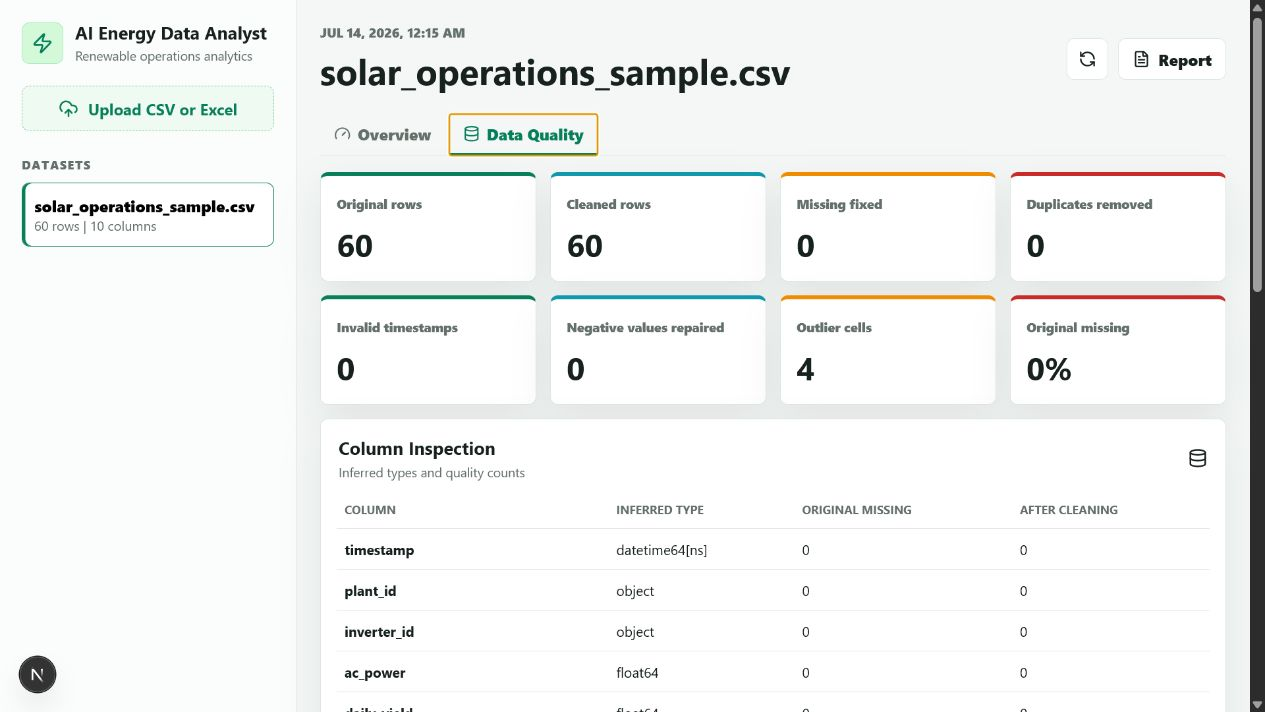
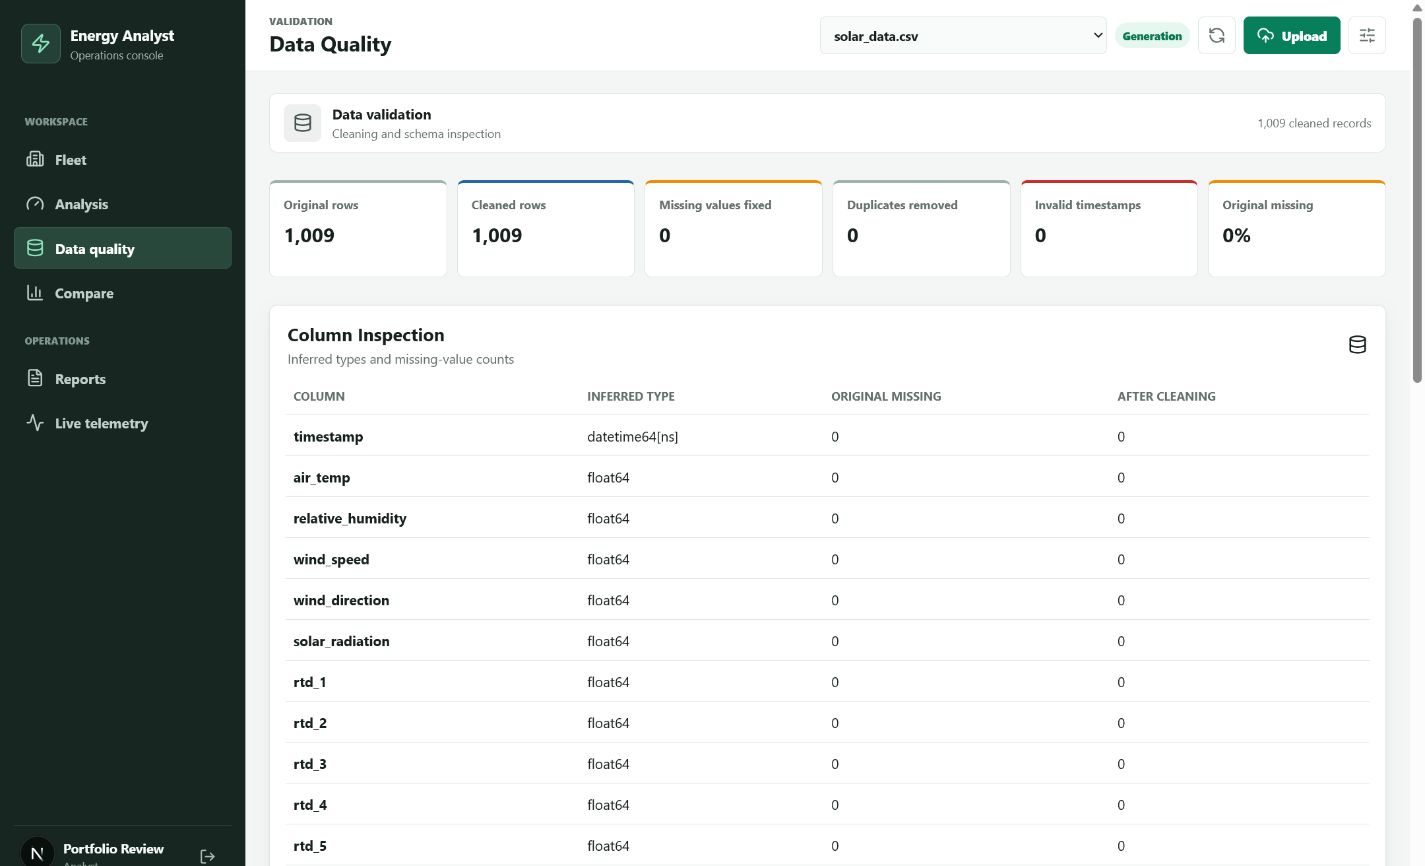
Refresh project documentation and screenshots

diff --git a/README.md b/README.md
@@ -1,6 +1,8 @@
 # AI Energy Data Analyst
 
-AI Energy Data Analyst is a full-stack renewable-energy operations tool built for analysts and engineering teams. It turns raw solar, wind, demand, weather, or maintenance files into a validated dataset, energy KPIs, anomaly evidence, forecasts, safe natural-language analysis, and a business-ready HTML report.
+[![CI](https://github.com/ammar081/AI-Energy-Data-Analyst/actions/workflows/ci.yml/badge.svg)](https://github.com/ammar081/AI-Energy-Data-Analyst/actions/workflows/ci.yml)
+
+AI Energy Data Analyst is a full-stack renewable-energy operations tool built for analysts and engineering teams. It turns raw solar, wind, demand, weather, or maintenance files into a validated dataset, an accessible operations workspace, energy KPIs, anomaly evidence, forecasts, safe natural-language analysis, and a business-ready HTML report.
 
 ## Problem Statement
 
@@ -12,23 +14,35 @@ This project keeps calculations deterministic in Python. The optional Gemini lay
 
 The repository includes a one-click Render Blueprint in `render.yaml` for the Next.js app, FastAPI service, and PostgreSQL database. The configured application URL will be:
 
-`https://ammar081-energy-analyst.onrender.com`
+[https://ammar081-energy-analyst.onrender.com](https://ammar081-energy-analyst.onrender.com)
 
 The URL becomes available after the Blueprint is connected and the first deployment completes. Free Render services can take a short time to wake after inactivity.
 
 ## Screenshots
 
-### Operations Overview
+### Fleet Operations Overview
 
-![Operations dashboard](docs/screenshots/dashboard.png)
+![Fleet operations overview with searchable dataset status, portfolio KPIs, and attention queue](docs/screenshots/dashboard.png)
+
+### Domain Analysis Dashboard
+
+![Generation analysis with period controls, measurement units, KPIs, anomalies, and forecast](docs/screenshots/analysis.png)
 
 ### Data Quality Inspection
 
-![Data quality view](docs/screenshots/data-quality.png)
+![Data-quality inspection with cleaning evidence and responsive column details](docs/screenshots/data-quality.png)
+
+### Responsive Workspace
+
+<p align="center">
+  <img src="docs/screenshots/mobile-fleet.png" width="700" alt="Responsive fleet overview with filters and expandable dataset rows">
+</p>
 
 ### Generated Report
 
 ![Renewable energy report](docs/screenshots/report.png)
+
+The application screenshots use local synthetic or public demonstration data. Values are illustrative and are not presented as live plant telemetry.
 
 ## Features
 
@@ -46,6 +60,15 @@ The URL becomes available after the Blueprint is connected and the first deploym
 - structured business explanations covering what happened, why it matters, a possible reason, and the next action
 - chart-rich HTML report with data quality, KPIs, anomalies, forecast, executive summary, and recommendations
 - permanent dataset deletion for database metadata, raw uploads, and cleaned files
+- responsive application shell with desktop navigation, mobile navigation, and role-aware commands
+- fleet search, domain and status filters, sorting, pagination, portfolio mix, and operational attention queue
+- domain-specific dashboards for generation, demand, maintenance, and combined generation-and-demand datasets
+- bookmarkable URL state for workspace views, selected datasets, rolling periods, and custom date ranges
+- consistent MW, MWh, percentage, time, and configurable maintenance-currency formatting
+- persisted system, light, and dark themes plus density, page-size, currency, and default-period preferences
+- expandable mobile data rows that replace horizontal table scrolling on smaller screens
+- consistent loading, empty, success, progress, and actionable error feedback across operational views
+- keyboard navigation, focus management, screen-reader labels, chart summaries, reduced-motion support, and automated accessibility checks
 - JWT authentication with administrator, analyst, and viewer permissions
 - administrator workspace for user roles, account status, usage totals, datasets, and reports
 - fleet comparison for two to six datasets with domain-aware ranking
@@ -53,7 +76,8 @@ The URL becomes available after the Blueprint is connected and the first deploym
 - vector-ranked search across stored report findings and recommendations
 - authenticated live telemetry simulation with expected-value and deviation tracking
 - bounded caching and anomaly sampling for multi-million-row datasets
-- SQLite locally, PostgreSQL in Docker and Render, plus Docker Compose, pytest, Ruff, and GitHub Actions
+- SQLite locally, PostgreSQL in Docker and Render, plus Docker Compose and GitHub Actions
+- pytest and Ruff backend coverage plus Vitest, React Testing Library, Playwright, and axe-core frontend coverage
 
 ## Tech Stack
 
@@ -61,7 +85,7 @@ Backend: Python 3.12, FastAPI, pandas, NumPy, scikit-learn, statsmodels, Google 
 
 Frontend: Next.js 16, React 19, TypeScript, Recharts, lucide-react
 
-Quality and delivery: pytest, Ruff, Docker, Docker Compose, GitHub Actions, Render Blueprint
+Quality and delivery: pytest, Ruff, Vitest, React Testing Library, Playwright, axe-core, Docker, Docker Compose, GitHub Actions, Render Blueprint
 
 ## Architecture
 
@@ -92,6 +116,7 @@ backend/tests/        Unit and end-to-end API tests
 frontend/app/         Next.js application shell and responsive styling
 frontend/components/  Dashboard experience
 frontend/lib/         Typed API client
+frontend/tests/       Unit, component, accessibility, and end-to-end tests
 data/sample/          Synthetic dataset for local evaluation
 docs/screenshots/     Verified application and report screenshots
 render.yaml           Production deployment Blueprint
@@ -115,7 +140,7 @@ Frontend in a second terminal:
 
 ```powershell
 cd frontend
-npm install
+npm ci
 npm run dev
 ```
 
@@ -196,10 +221,13 @@ pytest
 ```powershell
 cd frontend
 npm run typecheck
-npm run build
+npm run test:component
+npm run test:e2e
 ```
 
-CI runs the same checks for every pull request. The 23-test backend suite covers cleaning evidence, role permissions, generation and demand KPIs, maintenance work orders, advanced forecasting, anomaly rules, safe question behavior, report jobs, vector search, upload limits, and complete API workflows.
+The 23-test backend suite covers cleaning evidence, role permissions, generation and demand KPIs, maintenance work orders, advanced forecasting, anomaly rules, safe question behavior, report jobs, vector search, upload limits, and complete API workflows. The frontend suite adds 13 unit and component tests plus four Playwright scenarios for desktop navigation, mobile disclosures, preference persistence, combined operations, and serious or critical accessibility violations.
+
+GitHub Actions currently runs backend Ruff and pytest checks alongside frontend type checking and the production build for every pull request and every push to `main`.
 
 ## Deployment
 